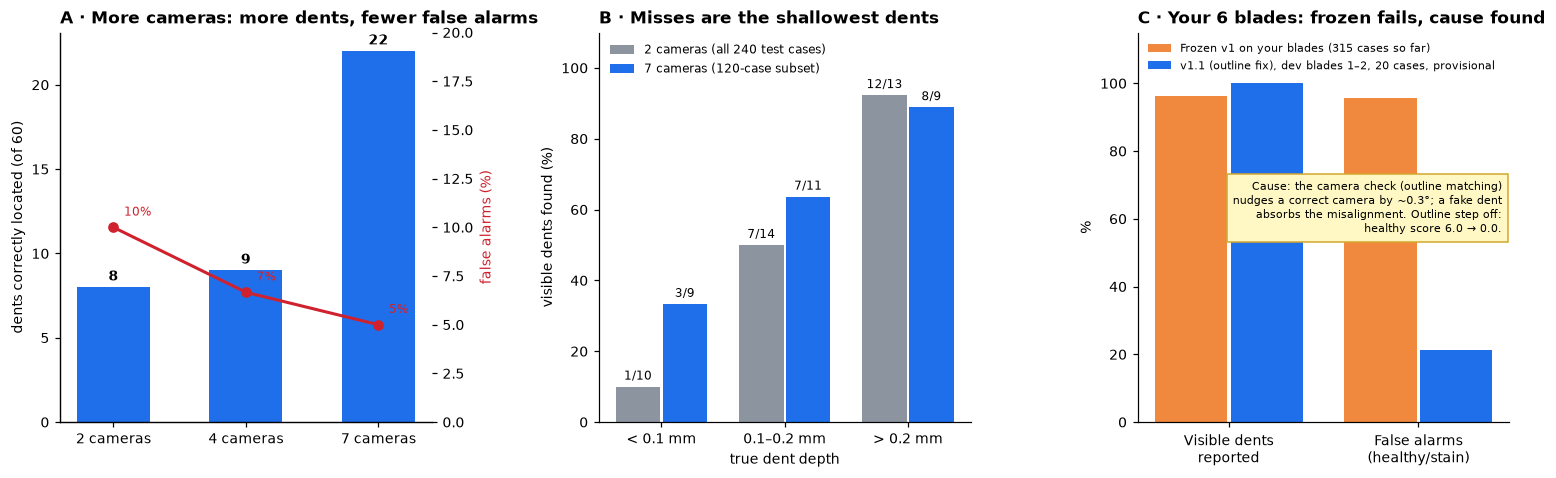
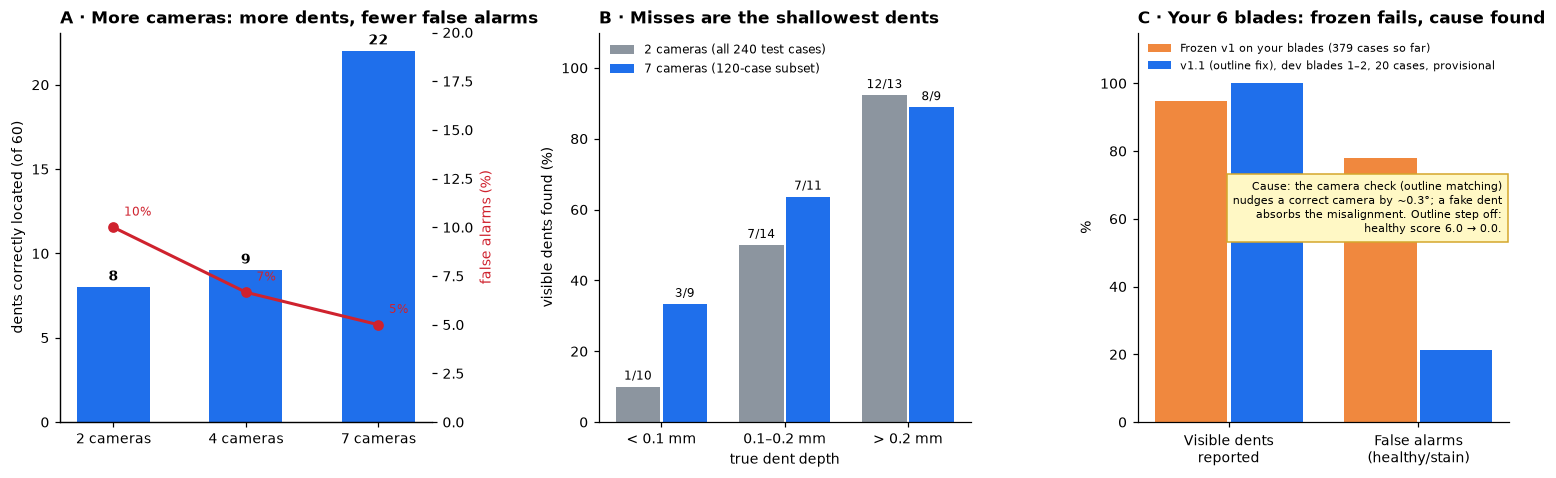
CAD6 visuals: frozen v1 scores per blade, examples, v1.1 fix examples

Changed region(s): [[0.8638, 0.205, 0.9254, 0.3515], [0.7404, 0.1757, 0.8021, 0.2343]]

diff --git a/results.html b/results.html
@@ -6,7 +6,7 @@
 <link rel="stylesheet" href="styles.css">
 <style>main.res{max-width:1100px;margin:0 auto;padding:32px 16px 64px;display:grid;gap:18px} main.res small{color:var(--muted)}</style>
 </head><body><main class="res">
-<span class="eyebrow">BladeDelta results · 08 Oct 2026, 10:22 UTC</span>
+<span class="eyebrow">BladeDelta results · 08 Oct 2026, 11:56 UTC</span>
 <h1>Sealed-test results <span class="chip partial">updating automatically</span></h1>
 <p>This page is rebuilt automatically from the experiment outputs. The test set is 240 cases on 30 blade shapes never used
 for development; the method and its threshold were locked before any test image existed. Brackets are 95% intervals,
@@ -31,6 +31,16 @@ fall to 5%. <b>B.</b> Misses are almost all dents shallower than 0.2&nbsp;mm. <b
 a false alarm on every case. Cause found: the camera check, which matches outlines, nudges a correct camera by about 0.3&deg; and a fake
 dent absorbs the misalignment. Fix (v1.1): correct the outline the same way the method already corrects brightness. It is developed on
 blades 1&ndash;2 and will be reported on blades 3&ndash;6, next to the frozen result.</figcaption></figure>
+<h2>Your six blades: frozen v1 in detail</h2><figure><img src="img/results/cad6_scores.png" alt="CAD6 scores">
+<figcaption>Each dot is one case. Red: healthy or stained blades, which should score below the dashed line. Blue: dents the cameras can
+see, which should score above it. Dents score high everywhere. On blades 1&ndash;3 (and partly 4) healthy blades score high too, so the frozen threshold
+cannot separate them; on blade 5 it mostly works. The false-alarm rate per blade is in the title.</figcaption></figure>
+<h3>Examples on your blades (left: photo with true dent orange and reported dent blue; middle: healthy reference; right: difference)</h3>
+<figure><img src="img/latest/cad6_1001_00.jpg" alt="Frozen v1 finds a real dent" loading="lazy"><figcaption><b>Frozen v1 finds a real dent.</b> Blade 1, no camera change: the dent (orange) is found exactly (blue).</figcaption></figure>
+<figure><img src="img/latest/cad6_1001_36.jpg" alt="Frozen v1: false alarm on a healthy blade" loading="lazy"><figcaption><b>Frozen v1: false alarm on a healthy blade.</b> Same blade, healthy, camera not moved: the photo and the healthy reference are identical (right panel is black), yet v1 reports dents near the edge. Its camera check nudged a correct camera by about 0.3&deg;.</figcaption></figure>
+<figure><img src="img/latest/cad6_1001_36_v11.jpg" alt="v1.1 on the same case: correctly reports nothing" loading="lazy"><figcaption><b>v1.1 on the same case: correctly reports nothing.</b> With the camera-check fix the pose stays put and no dent is claimed.</figcaption></figure>
+<figure><img src="img/latest/cad6_1002_70.jpg" alt="Frozen v1: false alarm when the camera moved 1&deg;" loading="lazy"><figcaption><b>Frozen v1: false alarm when the camera moved 1&deg;.</b> Blade 2, healthy, camera moved: v1 invents a large dent near the platform.</figcaption></figure>
+<figure><img src="img/latest/cad6_1002_70_v11.jpg" alt="v1.1 on the same case: correctly reports nothing" loading="lazy"><figcaption><b>v1.1 on the same case: correctly reports nothing.</b> The brightness correction now moves with the blade, so the camera movement no longer looks like damage.</figcaption></figure>
 <figure><img src="img/results/cad6_outline.jpg" alt="Outline mismatch" style="max-width:720px"><figcaption>Where the
 photo's outline and the mesh outline disagree (red: only in the photo; blue: only in the mesh). Left: your blade 3. Right: a Rotor37 blade.
 The disagreements are small, but on your blades they are enough to pull the camera check off by about 0.3&deg;.</figcaption></figure>
@@ -38,13 +48,13 @@ The disagreements are small, but on your blades they are enough to pull the came
 <div class="tablewrap"><table><thead><tr><th>Method</th><th>Separation (AUROC)</th><th>Visible dents found</th><th>…in the right place</th><th>False alarms</th><th>Hidden dents: abstains</th></tr></thead><tbody><tr><td><b>Ours (evidence-bounded)</b></td><td>0.82 <small>[0.71–0.90]</small></td><td>54% <small>[39–68]</small></td><td>54% <small>[39–68]</small></td><td>10% <small>[4–17]</small></td><td>85% <small>[77–91]</small></td></tr><tr><td><b>Ours without the evidence test</b></td><td>0.82 <small>[0.71–0.90]</small></td><td>84% <small>[68–95]</small></td><td>70% <small>[56–84]</small></td><td>32% <small>[21–43]</small></td><td>45% <small>[36–54]</small></td></tr><tr><td><b>2D detector lifted to 3D</b></td><td>0.71 <small>[0.63–0.80]</small></td><td>24% <small>[12–40]</small></td><td>16% <small>[5–30]</small></td><td>4% <small>[1–9]</small></td><td>96% <small>[93–99]</small></td></tr><tr><td><b>Free-form field (per vertex)</b></td><td>0.63 <small>[0.54–0.70]</small></td><td>14% <small>[4–24]</small></td><td>11% <small>[3–20]</small></td><td>4% <small>[1–9]</small></td><td>99% <small>[97–100]</small></td></tr><tr><td><b>Discrete search (earlier method)</b></td><td>0.53 <small>[0.43–0.65]</small></td><td>5% <small>[0–13]</small></td><td>5% <small>[0–13]</small></td><td>6% <small>[1–10]</small></td><td>98% <small>[95–100]</small></td></tr><tr><td><b>Unchanged CAD (never reports)</b></td><td>0.50 <small>[0.50–0.50]</small></td><td>0% <small>[0–0]</small></td><td>0% <small>[0–0]</small></td><td>0% <small>[0–0]</small></td><td>100% <small>[100–100]</small></td></tr></tbody></table></div>
 <h3>Ours, by capture condition</h3><div class="tablewrap"><table><thead><tr><th>Capture</th><th>Visible dents found</th><th>False alarms</th></tr></thead><tbody><tr><td>nominal</td><td>33%</td><td>10%</td></tr><tr><td>camera</td><td>60%</td><td>14%</td></tr><tr><td>light</td><td>78%</td><td>0%</td></tr><tr><td>both</td><td>44%</td><td>15%</td></tr></tbody></table></div>
 <figure><img src="img/results/cad6_blades.png" alt="Six CAD blades"></figure>
-<h2>New blades: your six real blade CAD models (315 of 456 cases so far)</h2>
+<h2>New blades: your six real blade CAD models (379 of 456 cases so far)</h2>
 <p>Six real blade designs with platforms and dovetail roots (33–88 mm), imported from STEP. Dents use real sizes
 (0.1–1.0 mm deep, 1–5 mm radius). Nothing was retrained or re-tuned: the method, its appearance model (trained only on
 Rotor37) and its threshold are the frozen ones, so this measures how well it transfers to new blade designs.</p>
-<div class="tablewrap"><table><thead><tr><th>Method</th><th>Separation (AUROC)</th><th>Visible dents found</th><th>…in the right place</th><th>False alarms</th><th>Hidden dents: abstains</th></tr></thead><tbody><tr><td><b>Ours (evidence-bounded)</b></td><td>0.72 <small>[0.58–0.87]</small></td><td>96% <small>[92–99]</small></td><td>67% <small>[56–81]</small></td><td>96% <small>[87–100]</small></td><td>5% <small>[0–14]</small></td></tr><tr><td><b>Ours without the evidence test</b></td><td>0.72 <small>[0.58–0.87]</small></td><td>99% <small>[97–100]</small></td><td>69% <small>[56–83]</small></td><td>98% <small>[93–100]</small></td><td>2% <small>[0–7]</small></td></tr></tbody></table></div>
-<h3>Does it depend on blade size?</h3><ul><li>Separation (AUROC): 0.72 on CAD6 vs 0.82 on the Rotor37 sealed test (transfer gap 0.09).</li><li>Visible dents found 96%, false alarms 96%, hidden dents abstained 5%.</li><li>Best blade 1 (24 mm), worst blade 3 (31 mm).</li><li>Blade size vs. dents found, across 6 blades: Spearman ρ = -0.97 (p = 0.00; only 6 blades, so weak evidence).</li><li>Smaller blades (≤ median span) found 99% vs larger 90%. The same dent in mm is relatively larger on a small blade, so we also check depth relative to the blade: ρ(found, relative depth) = -0.01, ρ(found, depth in mm) = -0.11.</li><li>Found rate by relative-depth tertile (shallow → deep): 98%, 96%, 96%.</li><li>With a threshold recalibrated leave-one-blade-out on CAD6 negatives: found 14%, false alarms 6%.</li><li>Recommended blade for the physical capture: blade 5 (better transfer of blades 4 and 5).</li></ul>
-<div class="tablewrap"><table><thead><tr><th>Blade</th><th>Airfoil span</th><th>Cases</th><th>Visible dents</th><th>AUROC</th><th>Found</th><th>False alarms</th></tr></thead><tbody><tr><td>1</td><td>24 mm</td><td>76</td><td>31</td><td>0.98</td><td>100%</td><td>100%</td></tr><tr><td>2</td><td>26 mm</td><td>76</td><td>31</td><td>0.72</td><td>100%</td><td>100%</td></tr><tr><td>3</td><td>31 mm</td><td>76</td><td>31</td><td>0.64</td><td>97%</td><td>100%</td></tr><tr><td>4</td><td>40 mm</td><td>76</td><td>31</td><td>0.66</td><td>94%</td><td>82%</td></tr><tr><td>5</td><td>52 mm</td><td>11</td><td>11</td><td>--</td><td>82%</td><td>–</td></tr></tbody></table></div>
+<div class="tablewrap"><table><thead><tr><th>Method</th><th>Separation (AUROC)</th><th>Visible dents found</th><th>…in the right place</th><th>False alarms</th><th>Hidden dents: abstains</th></tr></thead><tbody><tr><td><b>Ours (evidence-bounded)</b></td><td>0.74 <small>[0.67–0.87]</small></td><td>95% <small>[89–99]</small></td><td>70% <small>[57–82]</small></td><td>78% <small>[41–100]</small></td><td>24% <small>[0–64]</small></td></tr><tr><td><b>Ours without the evidence test</b></td><td>0.74 <small>[0.67–0.87]</small></td><td>98% <small>[97–99]</small></td><td>72% <small>[59–87]</small></td><td>84% <small>[55–100]</small></td><td>20% <small>[0–56]</small></td></tr></tbody></table></div>
+<h3>Does it depend on blade size?</h3><ul><li>Separation (AUROC): 0.74 on CAD6 vs 0.82 on the Rotor37 sealed test (transfer gap 0.07).</li><li>Visible dents found 95%, false alarms 78%, hidden dents abstained 24%.</li><li>Best blade 1 (24 mm), worst blade 3 (31 mm).</li><li>Blade size vs. dents found, across 6 blades: Spearman ρ = -0.97 (p = 0.00; only 6 blades, so weak evidence).</li><li>Smaller blades (≤ median span) found 99% vs larger 89%. The same dent in mm is relatively larger on a small blade, so we also check depth relative to the blade: ρ(found, relative depth) = 0.04, ρ(found, depth in mm) = -0.07.</li><li>Found rate by relative-depth tertile (shallow → deep): 94%, 94%, 96%.</li><li>With a threshold recalibrated leave-one-blade-out on CAD6 negatives: found 14%, false alarms 5%.</li><li>Recommended blade for the physical capture: blade 5 (better transfer of blades 4 and 5).</li></ul>
+<div class="tablewrap"><table><thead><tr><th>Blade</th><th>Airfoil span</th><th>Cases</th><th>Visible dents</th><th>AUROC</th><th>Found</th><th>False alarms</th></tr></thead><tbody><tr><td>1</td><td>24 mm</td><td>76</td><td>31</td><td>0.98</td><td>100%</td><td>100%</td></tr><tr><td>2</td><td>26 mm</td><td>76</td><td>31</td><td>0.72</td><td>100%</td><td>100%</td></tr><tr><td>3</td><td>31 mm</td><td>76</td><td>31</td><td>0.64</td><td>97%</td><td>100%</td></tr><tr><td>4</td><td>40 mm</td><td>76</td><td>31</td><td>0.66</td><td>94%</td><td>82%</td></tr><tr><td>5</td><td>52 mm</td><td>75</td><td>31</td><td>0.93</td><td>84%</td><td>6%</td></tr></tbody></table></div>
 <h2>Risk vs. coverage</h2><figure><img src="img/results/risk_coverage.png" alt="Risk-coverage curves" style="max-width:560px">
 <figcaption>Sweeping the evidence threshold: how many cases get a damage claim (coverage) and what fraction of those claims are wrong (risk). Lower and further right is better.</figcaption></figure>
 <h2>Ablations (36 development cases)</h2><div class="tablewrap"><table><thead><tr><th>Variant</th><th>Separation</th><th>Visible found</th><th>False alarms</th></tr></thead><tbody><tr><td>Full method</td><td>0.85 <small>[0.77–0.96]</small></td><td>67% <small>[41–88]</small></td><td>0% <small>[0–0]</small></td></tr><tr><td>No camera correction</td><td>0.68 <small>[0.49–0.84]</small></td><td>89% <small>[72–100]</small></td><td>39% <small>[21–56]</small></td></tr><tr><td>No stain model</td><td>0.75 <small>[0.56–0.90]</small></td><td>89% <small>[77–100]</small></td><td>50% <small>[33–69]</small></td></tr><tr><td>Random starts instead of smart proposals</td><td>0.42 <small>[0.23–0.62]</small></td><td>6% <small>[0–20]</small></td><td>0% <small>[0–0]</small></td></tr><tr><td>Fixed grid of 4 starts</td><td>–</td><td>0% <small>[0–0]</small></td><td>–</td></tr><tr><td>Whole image, not reliable pixels</td><td>0.69 <small>[0.49–0.85]</small></td><td>78% <small>[53–95]</small></td><td>6% <small>[0–20]</small></td></tr><tr><td>No brightness field</td><td>0.85 <small>[0.72–0.95]</small></td><td>94% <small>[80–100]</small></td><td>33% <small>[11–59]</small></td></tr><tr><td>4 views</td><td>0.83 <small>[0.71–0.95]</small></td><td>78% <small>[61–94]</small></td><td>6% <small>[0–19]</small></td></tr><tr><td>7 views</td><td>0.85 <small>[0.69–0.98]</small></td><td>78% <small>[61–94]</small></td><td>11% <small>[0–29]</small></td></tr></tbody></table></div>

diff --git a/index.html b/index.html
@@ -58,7 +58,7 @@
       <span class="eyebrow">Latest updates · 7 October 2026, afternoon</span>
       <h2 id="h-latest">Latest results, in pictures</h2>
       <p><b>Final sealed-test numbers and every method side by side: <a href="results.html">live results page</a></b> (rebuilt automatically as experiments finish).</p>
-      <!--AUTO-STATUS-START--><div class="note"><strong>Automatic status · 08 Oct 2026, 10:22 UTC</strong><p>5 of 14 phases done. Sealed test: separation 0.82, 54% of visible dents found, 10% false alarms. <a href="results.html">Full results and charts →</a></p></div><!--AUTO-STATUS-END-->
+      <!--AUTO-STATUS-START--><div class="note"><strong>Automatic status · 08 Oct 2026, 11:56 UTC</strong><p>5 of 14 phases done. Sealed test: separation 0.82, 54% of visible dents found, 10% false alarms. <a href="results.html">Full results and charts →</a></p></div><!--AUTO-STATUS-END-->
       <div class="stats">
         <div class="stat"><span class="big">213 / 240</span><span class="lbl">sealed-test cases done (27 never-seen blades); numbers below are preliminary</span></div>
         <div class="stat"><span class="big">0.81</span><span class="lbl">separation of visible dents from healthy/stained blades (was 0.89 at 80 cases)</span></div>
